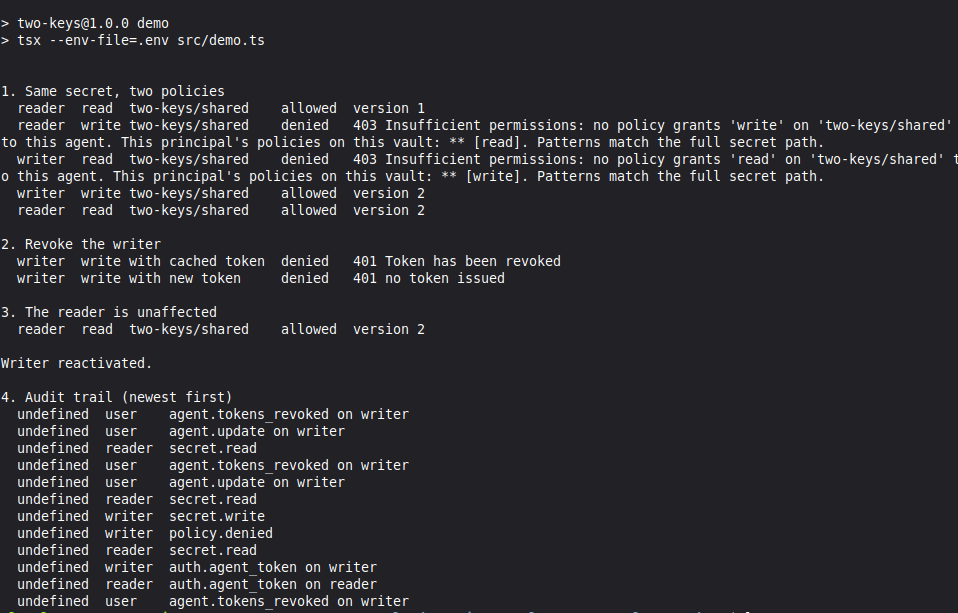
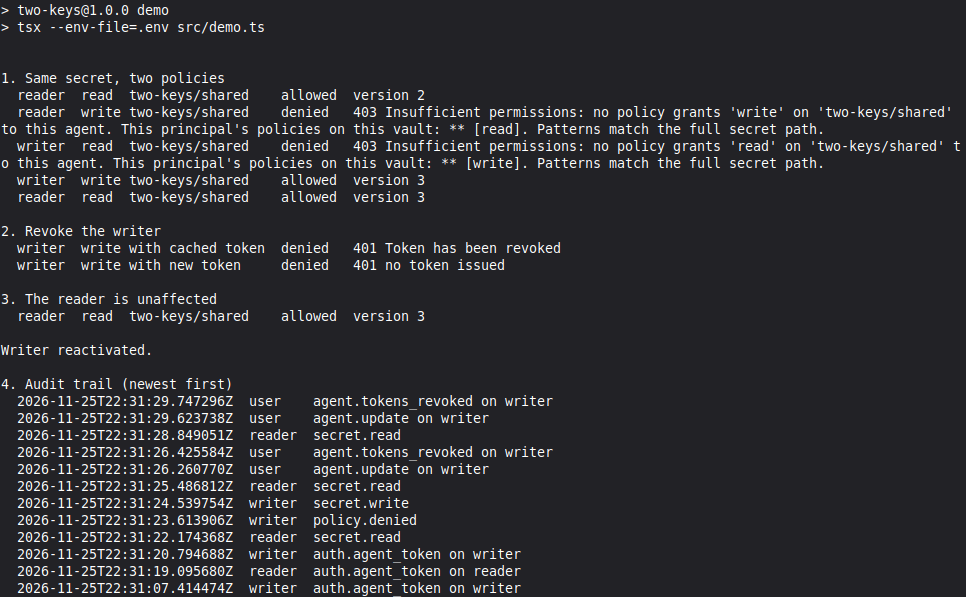
Update demo screenshot

diff --git a/README.md b/README.md
@@ -19,7 +19,7 @@ Two AI agents, each with its own [1Claw](https://1claw.co) identity, aimed at th
 
 ![npm run demo: the reader and writer are each allowed one operation, the revoked writer is refused, the reader still reads](docs/demo.png)
 
-A real run. The `undefined` in the audit trail was a timestamp bug in this capture, fixed since.
+Output of a real run.
 
 ## What the demo checks
 
